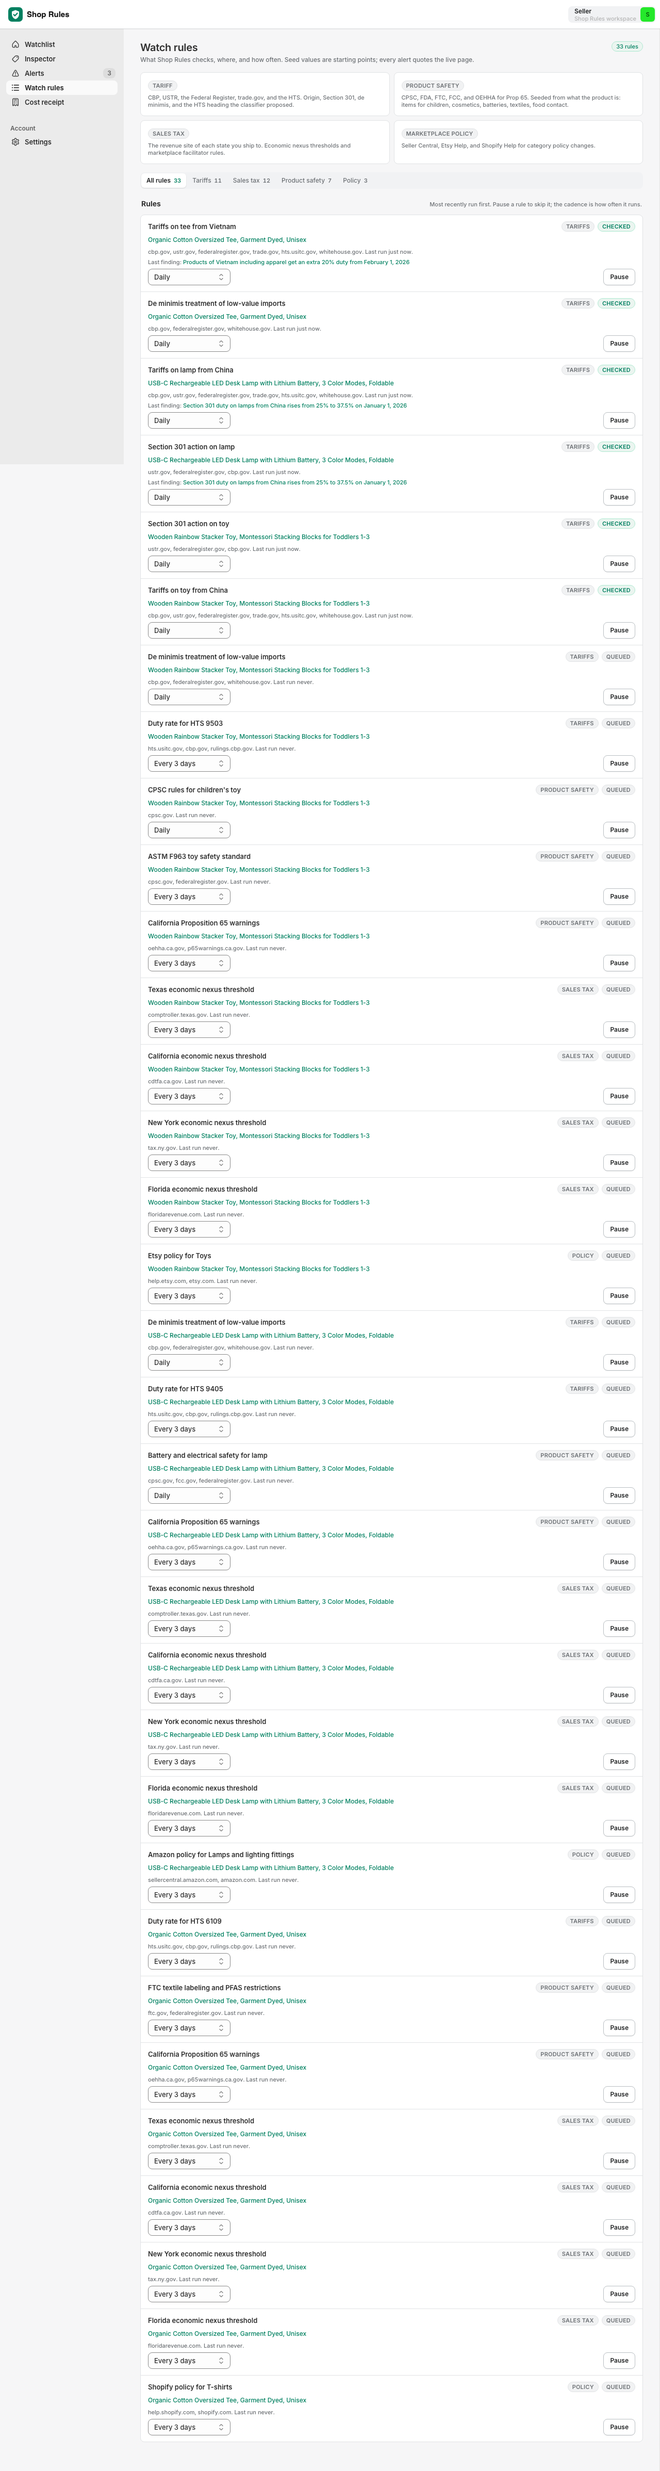
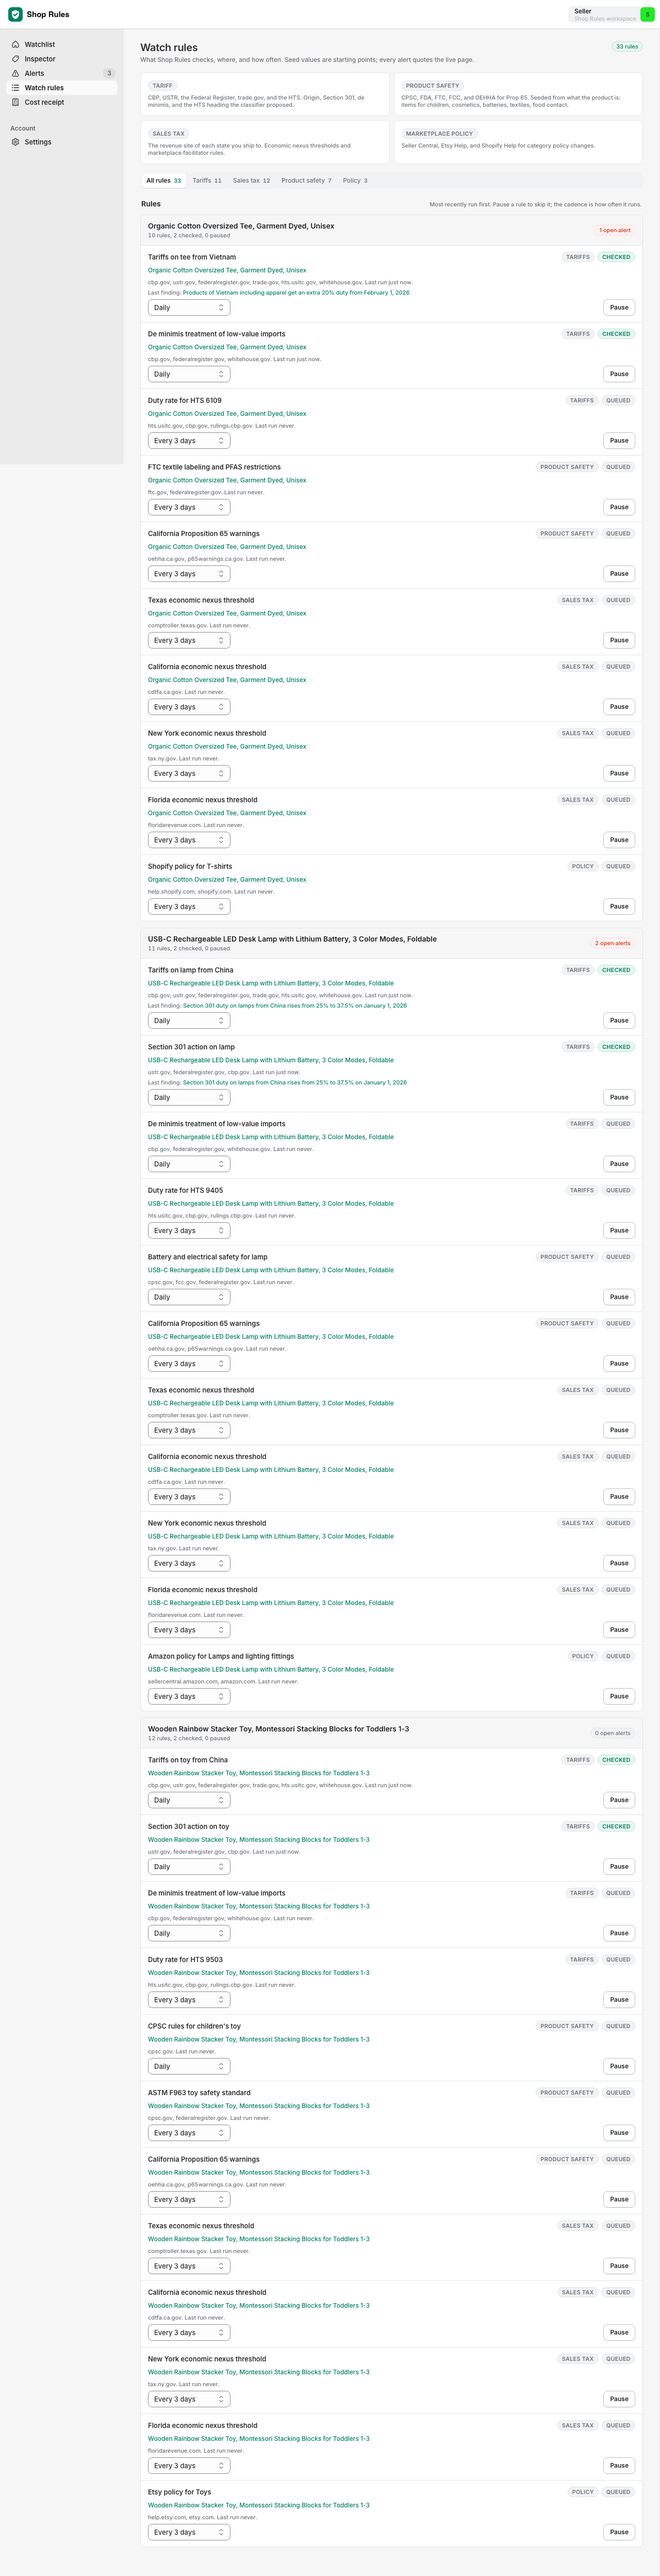
Polish: alerts deduped across a product's rules, demo-mode status labels, wrapping nexus footers, unclipped pills, Inspector price change and sparkline, rules grouped by product

diff --git a/apps/web/src/app/settings/page.tsx b/apps/web/src/app/settings/page.tsx
@@ -11,7 +11,7 @@ import { nexusSeed } from "@/lib/nexus";
 import { ConnectExtension } from "@/components/ConnectExtension";
 import { PriceSettings } from "@/components/PriceSettings";
 
-type Health = { ok: boolean; tavily_mode: string; nemotron_configured: boolean; storage_configured: boolean; models: Record<string, string> };
+type Health = { ok: boolean; tavily_mode: string; nemotron_configured: boolean; storage_configured: boolean; models: Record<string, string>; mode?: { store: "blob" | "local"; models: "live" | "canned"; tavily: "live" | "canned" } };
 
 export default function SettingsPage() {
   const { data, refresh } = useApi<{ account: AccountRow & { telegram_configured: boolean } }>("/api/account");
@@ -163,8 +163,8 @@ export default function SettingsPage() {
           </p>
         </div>
         {health.data ? (
-          <StatusPill tone={health.data.nemotron_configured && health.data.storage_configured ? "success" : "warning"} caps={false} live={health.data.nemotron_configured && health.data.storage_configured}>
-            {health.data.nemotron_configured && health.data.storage_configured ? "Workspace ready" : "Setup incomplete"}
+          <StatusPill tone={health.data.mode?.models === "canned" ? "info" : health.data.nemotron_configured && health.data.storage_configured ? "success" : "warning"} caps={false} live={health.data.nemotron_configured && health.data.storage_configured}>
+            {health.data.mode?.models === "canned" ? "Demo mode" : health.data.nemotron_configured && health.data.storage_configured ? "Workspace ready" : "Setup incomplete"}
           </StatusPill>
         ) : null}
       </div>
@@ -339,9 +339,9 @@ export default function SettingsPage() {
             </h2>
             <KV
               rows={[
-                ["Web access", <StatusPill key="w" tone="success">{health.data?.tavily_mode === "keyed" ? "Tavily, keyed" : "Tavily, keyless"}</StatusPill>],
-                ["Models", health.data?.nemotron_configured ? <StatusPill key="m" tone="success">Nemotron ready</StatusPill> : <StatusPill key="m" tone="critical">Missing NEBIUS_API_KEY</StatusPill>],
-                ["Storage", health.data?.storage_configured ? <StatusPill key="s" tone="success">Vercel Blob</StatusPill> : <StatusPill key="s" tone="critical">Missing BLOB_READ_WRITE_TOKEN</StatusPill>],
+                ["Web access", health.data?.mode?.tavily === "canned" ? <StatusPill key="w" tone="info">Recorded fixtures (demo mode)</StatusPill> : <StatusPill key="w" tone="success">{health.data?.tavily_mode === "keyed" ? "Tavily, keyed" : "Tavily, keyless"}</StatusPill>],
+                ["Models", health.data?.mode?.models === "canned" ? <StatusPill key="m" tone="info">Canned answers (demo mode)</StatusPill> : health.data?.nemotron_configured ? <StatusPill key="m" tone="success">Nemotron ready</StatusPill> : <StatusPill key="m" tone="critical">Missing NEBIUS_API_KEY</StatusPill>],
+                ["Storage", health.data?.mode?.store === "local" ? <StatusPill key="s" tone="info">Local file (demo mode)</StatusPill> : health.data?.storage_configured ? <StatusPill key="s" tone="success">Vercel Blob</StatusPill> : <StatusPill key="s" tone="critical">Missing BLOB_READ_WRITE_TOKEN</StatusPill>],
               ]}
             />
             <p className="sr-xs" style={{ marginTop: 8 }}>

diff --git a/apps/web/src/app/rules/page.tsx b/apps/web/src/app/rules/page.tsx
@@ -57,6 +57,19 @@ export default function RulesPage() {
   };
   const paused = rules.filter((r) => r.paused).length;
   const visible = (family === "all" ? rules : rules.filter((r) => r.family === family)).slice().sort((a, b) => (b.last_run_at ?? "").localeCompare(a.last_run_at ?? ""));
+  // One card per product, products in order of their most recently run rule.
+  const groups = (() => {
+    const out: Array<{ productId: string; title: string; rules: typeof visible }> = [];
+    for (const r of visible) {
+      let g = out.find((x) => x.productId === r.product_id);
+      if (!g) {
+        g = { productId: r.product_id, title: r.product_title || "Product", rules: [] };
+        out.push(g);
+      }
+      g.rules.push(r);
+    }
+    return out;
+  })();
 
   async function patch(rule: Rule, body: { paused?: boolean; cadence_hours?: number }, done: string) {
     setBusy(rule.id);
@@ -134,9 +147,24 @@ export default function RulesPage() {
             <SrButton onClick={() => setFamily("all")}>Show all rules</SrButton>
           </EmptyCard>
         ) : (
-          <SrCard flush>
+          <div className="sr-stack">
+            {groups.map((g) => (
+              <SrCard key={g.productId} flush>
+                <div className="sr-group-head">
+                  <div className="sr-grow" style={{ minWidth: 0 }}>
+                    <NextLink href={`/products/${g.productId}`} className="sr-group-title sr-truncate">
+                      {g.title}
+                    </NextLink>
+                    <p className="sr-xs sr-num" style={{ marginTop: 2 }}>
+                      {g.rules.length} rule{g.rules.length === 1 ? "" : "s"}, {g.rules.filter((r) => r.last_run_at).length} checked, {g.rules.filter((r) => r.paused).length} paused
+                    </p>
+                  </div>
+                  <StatusPill tone={g.rules.some((r) => lastAlertByRule.get(r.id)?.status === "new") ? "critical" : "neutral"} caps={false}>
+                    {g.rules.filter((r) => lastAlertByRule.get(r.id)?.status === "new").length} open alert{g.rules.filter((r) => lastAlertByRule.get(r.id)?.status === "new").length === 1 ? "" : "s"}
+                  </StatusPill>
+                </div>
             <div className="sr-rows">
-              {visible.map((r) => {
+              {g.rules.map((r) => {
                 const last = lastAlertByRule.get(r.id);
                 return (
                   <div key={r.id} className="sr-stack" style={{ padding: "12px 14px", gap: 6, opacity: r.paused ? 0.75 : 1 }}>
@@ -179,7 +207,9 @@ export default function RulesPage() {
                 );
               })}
             </div>
-          </SrCard>
+              </SrCard>
+            ))}
+          </div>
         )}
       </section>
     </div>

diff --git a/apps/web/src/app/products/page.tsx b/apps/web/src/app/products/page.tsx
@@ -6,6 +6,7 @@ import NextLink from "next/link";
 import { useState } from "react";
 import { timeAgo, useApi } from "@/lib/client";
 import { fmtMoney } from "@/lib/economics";
+import { deltaSummary, sparklinePath, toChartPoints } from "@/lib/chart";
 import type { ProductRow } from "@/lib/db";
 import { EmptyCard, marketplaceLabel, PageError, ProductThumb, Skeleton, SrButton, SrCard, StatusPill } from "@/components/stitch";
 import { WatchForm } from "@/components/WatchForm";
@@ -72,6 +73,7 @@ export default function InspectorListPage() {
                     </span>
                   </div>
                 </div>
+                <PriceCell points={p.price_points ?? []} />
                 <div className="sr-right sr-stack" style={{ gap: 4, alignItems: "flex-end" }}>
                   <span className="sr-body sr-num" style={{ fontWeight: 600 }}>
                     {fmtMoney(p.price, p.currency || "USD")}
@@ -92,6 +94,28 @@ export default function InspectorListPage() {
           </div>
         </SrCard>
       )}
+    </div>
+  );
+}
+
+// Change since first seen and a 30-point sparkline, from the product's stored
+// price points. Gain and loss use the shared tokens; no color without a number.
+function PriceCell({ points }: { points: Array<{ at: string; price: number }> }) {
+  const pts = toChartPoints(points);
+  const d = deltaSummary(pts);
+  if (!d || pts.length < 2) return <span className="sr-xs sr-desktop-only" style={{ width: 120, textAlign: "right" }}>no history yet</span>;
+  const up = d.direction === "up";
+  const flat = d.direction === "flat";
+  const color = flat ? "var(--sr-text-2)" : up ? "var(--sr-primary)" : "var(--sr-critical)";
+  const { path } = sparklinePath(pts, 84, 22);
+  return (
+    <div className="sr-desktop-only sr-stack" style={{ alignItems: "flex-end", gap: 2, width: 120 }}>
+      <span className="sr-xs sr-num" style={{ color, fontWeight: 600 }}>
+        {flat ? "=" : up ? "\u2191" : "\u2193"} {Math.abs(d.pct).toFixed(1)}% since added
+      </span>
+      <svg width="84" height="22" viewBox="0 0 84 22" aria-hidden focusable="false">
+        <path d={path} fill="none" stroke={color} strokeWidth="1.5" strokeLinejoin="round" strokeLinecap="round" />
+      </svg>
     </div>
   );
 }

diff --git a/apps/web/src/lib/pipeline.ts b/apps/web/src/lib/pipeline.ts
@@ -574,10 +574,11 @@ async function checkRule(account: AccountRow, product: ProductRow, rule: RuleRow
   // What the seller was already told for this rule, and how the price moved:
   // the model sees it so it reports only what is new, and the guardrails use it
   // to drop repeats.
-  const [previousAlerts, priceRows] = await Promise.all([
-    listAlerts(account.id, "all", product.id).then((rows) => rows.filter((a) => a.rule_id === rule.id)),
+  const [productAlerts, priceRows] = await Promise.all([
+    listAlerts(account.id, "all", product.id),
     listPrices(product.id, account.id).catch(() => []),
   ]);
+  const previousAlerts = productAlerts.filter((a) => a.rule_id === rule.id);
   const history = historyContext(previousAlerts, priceRows.map((p) => ({ at: p.at, price: Number(p.price) })), today);
 
   const view = { ...product, profile: effectiveProfile(product), price: effectivePrice(product) };
@@ -603,7 +604,7 @@ async function checkRule(account: AccountRow, product: ProductRow, rule: RuleRow
 
   // Deterministic guardrails: numbers must be in the quotes, actions must fit the
   // rule, the quotes must be about this product, and repeats are dropped.
-  const audit = auditRuleCheck({ check: raw, verified: verifiedRaw.claims, rule, product: view, previous: previousAlerts, sources, today });
+  const audit = auditRuleCheck({ check: raw, verified: verifiedRaw.claims, rule, product: view, previous: productAlerts, sources, today });
   const check = audit.check;
   const backedCount = audit.verified.filter((c) => c.backed).length;
   // Sales-tax rules: the parsed threshold counts only when a backed quote states the numbers.

diff --git a/apps/web/src/lib/db.ts b/apps/web/src/lib/db.ts
@@ -64,6 +64,8 @@ export interface ProductRow {
   created_at: string;
   last_checked_at: string | null;
   open_alerts?: number;
+  /** Last 30 price points, oldest first, for list views (sparkline and change since first seen). */
+  price_points?: Array<{ at: string; price: number }>;
 }
 
 export interface RuleRow extends RuleSpec {
@@ -430,7 +432,17 @@ export async function deleteAccount(id: string): Promise<void> {
 function withOpenCounts(ws: Workspace, products: ProductRow[]): ProductRow[] {
   const counts = new Map<string, number>();
   for (const a of ws.alerts) if (a.status === "new") counts.set(a.product_id, (counts.get(a.product_id) ?? 0) + 1);
-  return products.map((p) => ({ ...p, open_alerts: counts.get(p.id) ?? 0 }));
+  const points = new Map<string, Array<{ at: string; price: number }>>();
+  for (const pr of ws.prices) {
+    const list = points.get(pr.product_id) ?? [];
+    list.push({ at: pr.at, price: Number(pr.price) });
+    points.set(pr.product_id, list);
+  }
+  return products.map((p) => ({
+    ...p,
+    open_alerts: counts.get(p.id) ?? 0,
+    price_points: (points.get(p.id) ?? []).sort((a, b) => a.at.localeCompare(b.at)).slice(-30),
+  }));
 }
 
 export async function listProducts(accountId: string): Promise<ProductRow[]> {

diff --git a/apps/web/src/components/stitch.tsx b/apps/web/src/components/stitch.tsx
@@ -262,7 +262,11 @@ export function ProgressRow({ label, value, pct, tone = "success", foot }: { lab
       <div className={cx("sr-progress", tone === "critical" && "sr-progress--critical", tone === "warning" && "sr-progress--warning")}>
         <span style={{ width: `${width}%` }} />
       </div>
-      {foot ? <div className="sr-row sr-row--between sr-xs">{foot}</div> : null}
+      {foot ? (
+        <div className="sr-row sr-row--between sr-row--wrap sr-xs" style={{ alignItems: "flex-start", gap: "2px 8px" }}>
+          {foot}
+        </div>
+      ) : null}
     </div>
   );
 }
@@ -655,7 +659,7 @@ export function PriorityGroup({ product, alerts, settings, fallbackTitle }: { pr
             {product?.profile?.hts_candidates?.[0]?.code ? <span className="sr-xs sr-num sr-truncate">HS {product.profile.hts_candidates[0].code}</span> : null}
           </div>
         </div>
-        <div className="sr-row" style={{ gap: 8 }}>
+        <div className="sr-row" style={{ gap: 8, flexShrink: 0 }}>
           <StatusPill tone={openCount > 0 ? "critical" : "neutral"} caps={false}>
             {alerts.length} alert{alerts.length === 1 ? "" : "s"}
           </StatusPill>

diff --git a/apps/web/src/app/page.tsx b/apps/web/src/app/page.tsx
@@ -349,7 +349,7 @@ export default function WatchlistPage() {
                   }
                   foot={
                     <>
-                      <span className="sr-truncate">
+                      <span className="sr-grow" style={{ minWidth: 180 }}>
                         {facilitators.length ? `${facilitators.join(" and ")} collect for you here (marketplace facilitator)` : ""}
                         {facilitators.length && selfCollect ? ". " : ""}
                         {selfCollect || !facilitators.length ? (
